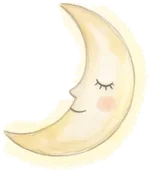
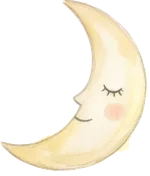
feat: endless carousel sleep toggle, sunny face glow, art fixes
- The current scene fills the toggle and the other peeks in on the right
  through a soft gradient with its call to action; choosing it slides left
  and the old scene comes back round as the new peek.
- Faint frosted backing behind the label and timer.
- Warm yellow glow around the baby face in every state and theme.
- Sun raised; bee no longer flips flat (no mirrored keyframes) and flies in
  open meadow; moon cut tighter so its glow no longer reads as an outline;
  backdrop pigment lifted slightly; day text stays dark in dark mode.

Changed region(s): [[0.0, 0.0, 0.9867, 0.9884], [0.64, 0.4651, 0.8267, 0.6395], [0.7733, 0.6105, 0.8267, 0.6686]]

diff --git a/src/components/SleepStateControl.tsx b/src/components/SleepStateControl.tsx
@@ -1,23 +1,31 @@
 "use client";
 
-import { useEffect, useState } from "react";
+import { useEffect, useRef, useState } from "react";
 import { Moon, Sun } from "lucide-react";
 
 import { StorybookDay, StorybookNight } from "@/components/StorybookArt";
 
+type SleepState = "awake" | "sleeping";
+
 type SleepStateControlProps = {
-  state: "awake" | "sleeping";
+  state: SleepState;
   elapsedLabel?: string;
   since?: number | null;
   disabled: boolean;
   compact?: boolean;
-  onSelect: (state: "awake" | "sleeping") => void;
+  onSelect: (state: SleepState) => void;
 };
 
-const options = [
-  { state: "awake" as const, label: "Awake", Icon: Sun },
-  { state: "sleeping" as const, label: "Sleeping", Icon: Moon },
-];
+const SCENES = {
+  awake: { label: "Awake", cta: "Wake up", Icon: Sun, Art: StorybookDay },
+  sleeping: { label: "Sleeping", cta: "Sleep", Icon: Moon, Art: StorybookNight },
+} as const;
+
+/** Where a scene panel sits in the carousel track. */
+type Role = "current" | "peek" | "leaving" | "parked";
+
+/** How long the slide takes; the parked scene then glides back in as the peek. */
+const SLIDE_MS = 900;
 
 function formatElapsed(ms: number): string {
   const totalSec = Math.floor(ms / 1000);
@@ -29,71 +37,91 @@ function formatElapsed(ms: number): string {
     : `${minutes}:${String(seconds).padStart(2, "0")}`;
 }
 
-/** Decorative day scene inside the sliding thumb. */
-function DayScene() {
-  return (
-    <span aria-hidden="true" className="sleep-scene sleep-scene-day">
-      <StorybookDay />
-    </span>
-  );
+function rolesFor(current: SleepState, otherRole: Role): Record<SleepState, Role> {
+  return current === "awake"
+    ? { awake: "current", sleeping: otherRole }
+    : { sleeping: "current", awake: otherRole };
 }
 
-/** Decorative night scene inside the sliding thumb. */
-function NightScene() {
-  return (
-    <span aria-hidden="true" className="sleep-scene sleep-scene-night">
-      <StorybookNight />
-    </span>
-  );
-}
-
+/**
+ * Sleep / awake control as an endless carousel. The current state's painted
+ * scene fills the control; the other scene peeks in on the right through a
+ * soft gradient with its call to action. Choosing it slides everything left:
+ * the chosen scene takes the stage and the scene just left comes back round
+ * from the right as the new peek, so the carousel always moves leftwards.
+ */
 export function SleepStateControl({ state, since = null, elapsedLabel, disabled, compact = false, onSelect }: SleepStateControlProps) {
   const [now, setNow] = useState(Date.now());
   useEffect(() => {
     const interval = window.setInterval(() => setNow(Date.now()), 1000);
     return () => window.clearInterval(interval);
   }, []);
-  const displayedElapsed = elapsedLabel ?? (since == null ? "Not timed yet" : formatElapsed(Math.max(0, now - since)));
-  const current = options.find((option) => option.state === state)!;
-  const other = options.find((option) => option.state !== state)!;
-  const CurrentIcon = current.Icon;
-  const OtherIcon = other.Icon;
+
+  const [roles, setRoles] = useState<Record<SleepState, Role>>(() => rolesFor(state, "peek"));
+  const previous = useRef(state);
+  useEffect(() => {
+    if (previous.current === state) return;
+    previous.current = state;
+    // 1. slide: the old scene leaves to the left while the chosen one takes the stage.
+    setRoles(rolesFor(state, "leaving"));
+    // 2. park the old scene off to the right without animating, 3. glide it in as the peek.
+    let frame = 0;
+    const timer = window.setTimeout(() => {
+      setRoles(rolesFor(state, "parked"));
+      frame = window.requestAnimationFrame(() => {
+        frame = window.requestAnimationFrame(() => setRoles(rolesFor(state, "peek")));
+      });
+    }, SLIDE_MS);
+    return () => {
+      window.clearTimeout(timer);
+      window.cancelAnimationFrame(frame);
+    };
+  }, [state]);
+
+  const elapsed = elapsedLabel ?? (since == null ? "Not timed yet" : formatElapsed(Math.max(0, now - since)));
   const untimed = since == null && elapsedLabel == null;
 
-  // The whole toggle is the current state's scene. Both scenes stay mounted
-  // and crossfade; the sun sinks as the moon rises (and back) on a switch.
   return (
     <div
       data-compact={compact}
       data-state={state}
       role="group"
       aria-label="Sleep state"
-      className="sleep-toggle relative isolate min-w-0 overflow-hidden rounded-xl border border-border shadow-inner"
+      className={"sleep-toggle relative isolate min-w-0 overflow-hidden rounded-xl border border-border shadow-inner " + (compact ? "h-20" : "h-[6.25rem]")}
     >
-      <span aria-hidden="true" className="sleep-scene sleep-scene-day"><StorybookDay /></span>
-      <span aria-hidden="true" className="sleep-scene sleep-scene-night"><StorybookNight /></span>
-
-      <div className={"sleep-toggle-content relative z-10 flex items-center justify-between gap-3 " + (compact ? "min-h-16 px-3 py-2" : "min-h-[6rem] px-4 py-3")}>
-        <div className="min-w-0" aria-live="polite">
-          <p className="sleep-state-label flex items-center gap-1.5 text-sm font-semibold">
-            <CurrentIcon aria-hidden="true" className="h-4 w-4 shrink-0" />
-            <span>{current.label}</span>
-          </p>
-          <p className={"sleep-elapsed font-display font-semibold tabular-nums " + (untimed ? "mt-0.5 text-sm" : compact ? "text-2xl leading-8" : "text-[2rem] leading-10")}>
-            {displayedElapsed}
-          </p>
-        </div>
-        <button
-          type="button"
-          aria-label={"Set state to " + other.label}
-          disabled={disabled}
-          onClick={() => onSelect(other.state)}
-          className="sleep-switch inline-flex min-h-11 shrink-0 items-center gap-1.5 rounded-full border px-4 text-sm font-semibold shadow-sm backdrop-blur-sm transition-[color,background-color,border-color,transform] duration-700 active:scale-95 disabled:opacity-50 motion-reduce:transition-none"
-        >
-          <OtherIcon aria-hidden="true" className="h-4 w-4" />
-          {other.state === "sleeping" ? "Sleep" : "Wake up"}
-        </button>
-      </div>
+      {(["awake", "sleeping"] as const).map((scene) => {
+        const { label, cta, Icon, Art } = SCENES[scene];
+        const role = roles[scene];
+        return (
+          <div key={scene} data-scene={scene} data-role={role} className="sleep-panel absolute inset-0">
+            <span aria-hidden="true" className="sleep-scene"><Art /></span>
+            {scene === state ? (
+              <div className="sleep-status relative z-10 flex h-full items-center px-3" aria-live="polite">
+                <div className="sleep-status-backing rounded-2xl px-3 py-1.5">
+                  <p className="flex items-center gap-1.5 text-sm font-semibold">
+                    <Icon aria-hidden="true" className="h-4 w-4 shrink-0" />
+                    <span>{label}</span>
+                  </p>
+                  <p className={"sleep-elapsed font-display font-semibold tabular-nums " + (untimed ? "mt-0.5 text-sm" : compact ? "text-2xl leading-8" : "text-[2rem] leading-10")}>
+                    {elapsed}
+                  </p>
+                </div>
+              </div>
+            ) : (
+              <button
+                type="button"
+                aria-label={"Set state to " + label}
+                disabled={disabled || role !== "peek"}
+                onClick={() => onSelect(scene)}
+                className="sleep-peek-cta absolute inset-y-0 z-10 flex w-[34%] items-center justify-center gap-1.5 pl-6 pr-2 text-sm font-semibold disabled:cursor-default"
+              >
+                <Icon aria-hidden="true" className="h-4 w-4 shrink-0" />
+                <span className="whitespace-nowrap">{cta}</span>
+              </button>
+            )}
+          </div>
+        );
+      })}
     </div>
   );
 }

diff --git a/src/app/globals.css b/src/app/globals.css
@@ -245,66 +245,55 @@ html[data-care-mode="sick"][data-theme="dark"] {
   --scene-day-text: 255 244 224;
 }
 
-/* Full-width sleep toggle: the current state's scene fills the control. */
+/* Sleep toggle carousel: the current scene fills the control and the other
+   peeks in on the right through a soft gradient. Choosing the peek slides
+   everything left; the scene just left glides back in from the right. */
+.sleep-panel {
+  transition: transform 900ms cubic-bezier(0.65, 0, 0.25, 1);
+  will-change: transform;
+}
+.sleep-panel[data-role="current"] { transform: translateX(0); z-index: 1; }
+.sleep-panel[data-role="peek"] {
+  transform: translateX(66%);
+  z-index: 2;
+  -webkit-mask-image: linear-gradient(to right, transparent 0, rgb(0 0 0 / 0.65) 9%, #000 18%);
+  mask-image: linear-gradient(to right, transparent 0, rgb(0 0 0 / 0.65) 9%, #000 18%);
+}
+.sleep-panel[data-role="leaving"] { transform: translateX(-100%); z-index: 1; }
+.sleep-panel[data-role="parked"] { transform: translateX(100%); transition: none; z-index: 2; }
+/* In the peek the scene shows its own left edge, so the CTA sits there. */
+.sleep-panel[data-role="peek"] .sleep-peek-cta,
+.sleep-panel[data-role="parked"] .sleep-peek-cta {
+  left: 0;
+  right: auto;
+}
+.sleep-panel[data-role="leaving"] .sleep-peek-cta { opacity: 0; }
 .sleep-scene {
   position: absolute;
   inset: 0;
   overflow: hidden;
-  transition: opacity 1100ms ease;
 }
-.sleep-scene .sb-art {
-  display: block;
-  width: 100%;
-  height: 100%;
+/* The painted meadow stays light in both themes, so its text is always dark. */
+.sleep-panel[data-scene="awake"] { color: rgb(88 56 26); }
+.sleep-panel[data-scene="sleeping"] { color: rgb(var(--scene-night-text)); }
+/* A faint frosted wash behind the label and timer: lifts them off the art
+   without reading as a box. */
+.sleep-status-backing {
+  background: radial-gradient(closest-side, rgb(255 250 238 / 0.55), rgb(255 250 238 / 0.18) 70%, transparent);
+  backdrop-filter: blur(1.5px);
 }
-.sleep-toggle[data-state="awake"] .sleep-scene-night,
-.sleep-toggle[data-state="sleeping"] .sleep-scene-day {
-  opacity: 0;
+.sleep-panel[data-scene="sleeping"] .sleep-status-backing {
+  background: radial-gradient(closest-side, rgb(34 38 80 / 0.5), rgb(34 38 80 / 0.16) 70%, transparent);
 }
-/* Sunset / moonrise: the sun sinks out as night fades in, and rises back. */
-.sb-sun-arc,
-.sb-moon-arc {
-  transition: transform 1300ms cubic-bezier(0.45, 0, 0.2, 1);
+.sleep-peek-cta {
+  text-shadow: 0 0 6px rgb(255 250 238 / 0.9);
 }
-.sleep-toggle[data-state="sleeping"] .sb-sun-arc {
-  transform: translateY(70px);
+.sleep-panel[data-scene="sleeping"] .sleep-peek-cta {
+  text-shadow: 0 0 6px rgb(30 34 72 / 0.95);
 }
-.sleep-toggle[data-state="awake"] .sb-moon-arc {
-  transform: translateY(70px);
-}
-.sleep-toggle-content {
-  transition: color 900ms ease;
-}
-.sleep-toggle[data-state="awake"] .sleep-toggle-content {
-  color: rgb(var(--scene-day-text));
-  text-shadow: 0 0 8px rgb(var(--sb-day-sky-top) / 0.95);
-}
-.sleep-toggle[data-state="sleeping"] .sleep-toggle-content {
-  color: rgb(var(--scene-night-text));
-  text-shadow: 0 0 8px rgb(var(--sb-night-top) / 0.95);
-}
-.sleep-toggle .sleep-elapsed {
-  opacity: 0.95;
-}
-.sleep-toggle[data-state="awake"] .sleep-switch {
-  border-color: rgb(var(--sb-night-top) / 0.25);
-  background-color: rgb(var(--sb-night-top) / 0.82);
-  color: rgb(var(--scene-night-text));
-  text-shadow: none;
-}
-.sleep-toggle[data-state="sleeping"] .sleep-switch {
-  border-color: rgb(var(--sb-day-sky-top) / 0.5);
-  background-color: rgb(var(--sb-day-sky-top) / 0.9);
-  color: rgb(var(--scene-day-text));
-  text-shadow: none;
-}
+.sleep-peek-cta:not(:disabled):active { transform: scale(0.97); }
 @media (prefers-reduced-motion: reduce) {
-  .sleep-scene,
-  .sb-sun-arc,
-  .sb-moon-arc,
-  .sleep-toggle-content {
-    transition: none;
-  }
+  .sleep-panel { transition: none; }
 }
 
 .sb-art * {
@@ -827,6 +816,8 @@ body {
   height: 100%;
   object-fit: cover;
   object-position: center bottom;
+  /* the washes are very pale at this size: bring the pigment forward a touch */
+  filter: contrast(1.1) saturate(1.25);
 }
 .sb-pos {
   position: absolute;
@@ -890,11 +881,10 @@ body {
   to { transform: translateX(26px); }
 }
 @keyframes sb-bee-fly {
-  0%, 100% { transform: translate(-30px, 4px) rotate(-6deg); }
-  20% { transform: translate(10px, -10px) rotate(4deg); }
-  40% { transform: translate(52px, 0) rotate(8deg); }
-  60% { transform: translate(18px, 8px) scaleX(-1) rotate(-4deg); }
-  80% { transform: translate(-20px, -6px) scaleX(-1) rotate(4deg); }
+  0%, 100% { transform: translate(-26px, 4px) rotate(-5deg); }
+  25% { transform: translate(6px, -9px) rotate(4deg); }
+  50% { transform: translate(40px, -1px) rotate(7deg); }
+  75% { transform: translate(10px, 7px) rotate(-3deg); }
 }
 @keyframes sb-flap-a { 0% { opacity: 1; } 50% { opacity: 0; } }
 @keyframes sb-flap-b { 0% { opacity: 0; } 50% { opacity: 1; } }
@@ -922,4 +912,22 @@ body {
   .sb-bee-frame-b { animation: none; opacity: 0; }
   .sb-zz { animation: none; opacity: 0.7; }
   .sb-smoke-rise { opacity: 0.7; }
+}
+
+/* Sunny glow around the baby face (a warm, Teletubbies-sun halo). */
+.baby-face-glow {
+  position: absolute;
+  inset: -12px -14px -10px;
+  border-radius: 9999px;
+  pointer-events: none;
+  background: radial-gradient(closest-side, rgb(255 222 110 / 0.85), rgb(255 206 84 / 0.45) 55%, rgb(255 200 80 / 0) 100%);
+  filter: blur(4px);
+  animation: baby-face-glow 5s ease-in-out infinite;
+}
+@keyframes baby-face-glow {
+  0%, 100% { transform: scale(1); opacity: 0.85; }
+  50% { transform: scale(1.06); opacity: 1; }
+}
+@media (prefers-reduced-motion: reduce) {
+  .baby-face-glow { animation: none; }
 }

diff --git a/src/components/SleepStateControl.test.ts b/src/components/SleepStateControl.test.ts
@@ -16,8 +16,10 @@ test("awake fills the toggle with the current state, its timer and a switch to s
   assert.match(html, /data-state="awake"/);
   assert.match(html, />Awake</);
   assert.equal((html.match(/>1:20</g) ?? []).length, 1);
-  // One action: switch to the other state.
+  // The other state peeks in on the right as the single action.
   assert.equal((html.match(/<button/g) ?? []).length, 1);
+  assert.match(html, /data-scene="awake" data-role="current"/);
+  assert.match(html, /data-scene="sleeping" data-role="peek"/);
   assert.match(html, /aria-label="Set state to Sleeping"/);
   assert.match(html, />Sleep</);
   assert.doesNotMatch(html, /aria-label="Set state to Awake"/);
@@ -28,14 +30,17 @@ test("sleeping offers a wake-up switch and keeps the timer", () => {
   assert.match(html, /data-state="sleeping"/);
   assert.match(html, />Sleeping</);
   assert.match(html, />0:42</);
+  assert.match(html, /data-scene="sleeping" data-role="current"/);
+  assert.match(html, /data-scene="awake" data-role="peek"/);
   assert.match(html, /aria-label="Set state to Awake"[^>]*disabled=""/);
   assert.match(html, />Wake up</);
 });
 
-test("both scenes stay mounted (for the crossfade) and are hidden from assistive tech", () => {
+test("both scenes stay mounted (for the carousel) and are hidden from assistive tech", () => {
   const html = renderToStaticMarkup(createElement(SleepStateControl, { state: "awake", elapsedLabel: "0:05", disabled: false, onSelect: () => undefined }));
-  assert.match(html, /aria-hidden="true" class="sleep-scene sleep-scene-day"/);
-  assert.match(html, /aria-hidden="true" class="sleep-scene sleep-scene-night"/);
+  assert.equal((html.match(/aria-hidden="true" class="sleep-scene"/g) ?? []).length, 2);
+  assert.match(html, /sb-painted-day/);
+  assert.match(html, /sb-painted-night/);
   assert.match(html, /class="sb-sun-arc sb-pos"/);
   assert.match(html, /class="sb-moon-arc sb-pos"/);
   assert.match(html, /sb-bee-path/);

diff --git a/src/components/StorybookArt.tsx b/src/components/StorybookArt.tsx
@@ -69,13 +69,13 @@ export function StorybookDay({ className = "" }: { className?: string }) {
   return (
     <span aria-hidden="true" className={`sb-painted sb-painted-day ${className}`}>
       <Layer src="awake-backdrop.webp" className="sb-backdrop" />
-      <span className="sb-sun-arc sb-pos" style={{ left: "46%", top: "6%", width: "17%" }}>
+      <span className="sb-sun-arc sb-pos" style={{ left: "46%", top: "-10%", width: "17%" }}>
         <Layer src="sun.webp" className="sb-sun-glow" />
       </span>
       <span className="sb-pos sb-cloud-drift sb-cloud-a" style={{ left: "2%", top: "4%", width: "22%" }}><Layer src="cloud-1.webp" /></span>
       <span className="sb-pos sb-cloud-drift sb-cloud-b" style={{ left: "28%", top: "-6%", width: "15%" }}><Layer src="cloud-2.webp" /></span>
       <span className="sb-pos sb-cloud-drift sb-cloud-c" style={{ left: "76%", top: "0%", width: "18%" }}><Layer src="cloud-3.webp" /></span>
-      <span className="sb-pos sb-bee-path" style={{ left: "34%", top: "58%", width: "5.6%" }}>
+      <span className="sb-pos sb-bee-path" style={{ left: "52%", top: "56%", width: "5.6%" }}>
         <Layer src="bee-up.webp" className="sb-bee-frame sb-bee-frame-a" />
         <Layer src="bee-down.webp" className="sb-bee-frame sb-bee-frame-b" />
       </span>

diff --git a/src/components/BabyCareMenu.tsx b/src/components/BabyCareMenu.tsx
@@ -31,6 +31,8 @@ export default function BabyCareMenu({ name, active, accessory, accessoryPlaceme
           <span className="baby-home-backdrop relative z-0 -mr-12 shrink-0">{accessory}</span>
         )}
         <span className="relative z-10 shrink-0">
+          {/* A warm, sunny glow around the face in every state and theme. */}
+          <span aria-hidden="true" className="baby-face-glow" />
           {/* The face is a second, pointer-only way into the same menu as the name. */}
           <button type="button" tabIndex={-1} aria-hidden="true" onClick={open} className="baby-face relative block rounded-2xl transition-transform active:scale-95">
             <Image src="/icon.svg" alt="" width={72} height={80} priority className="h-16 w-14 object-contain" />
